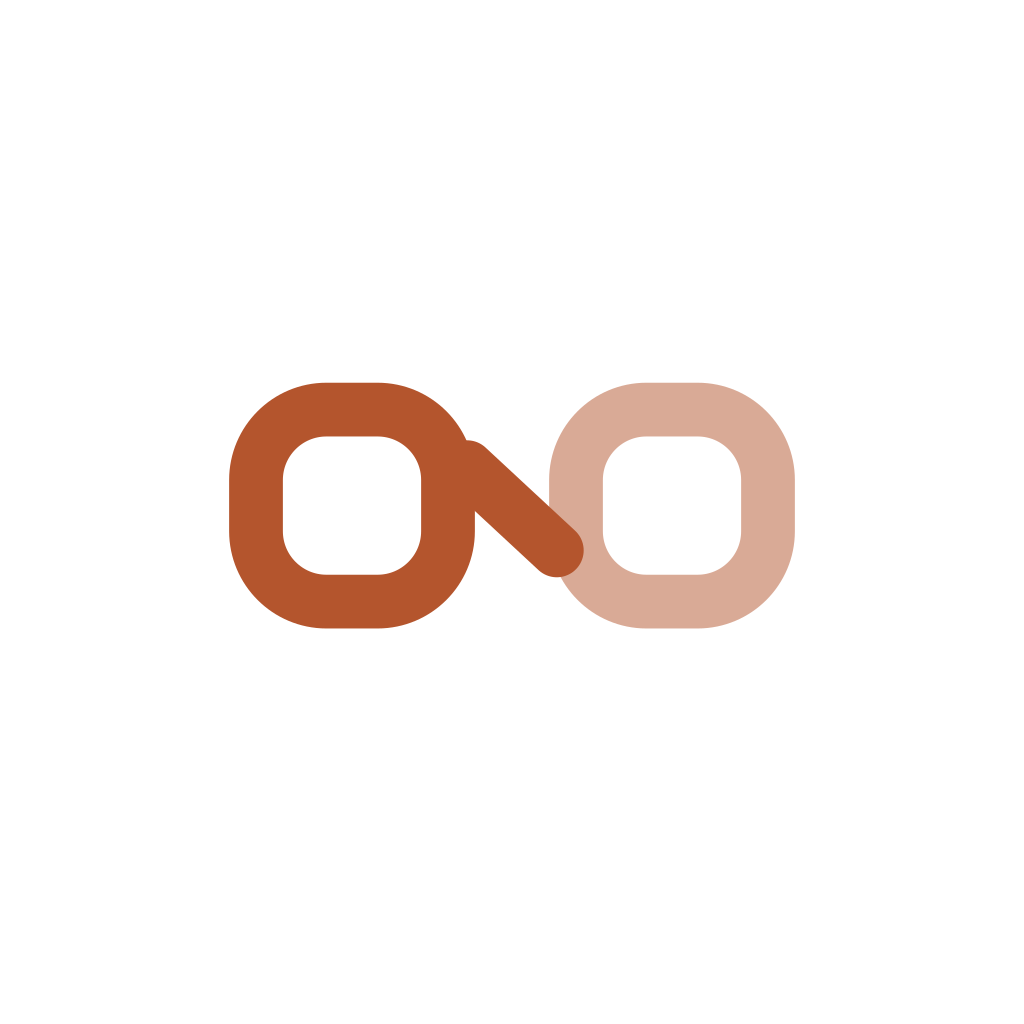
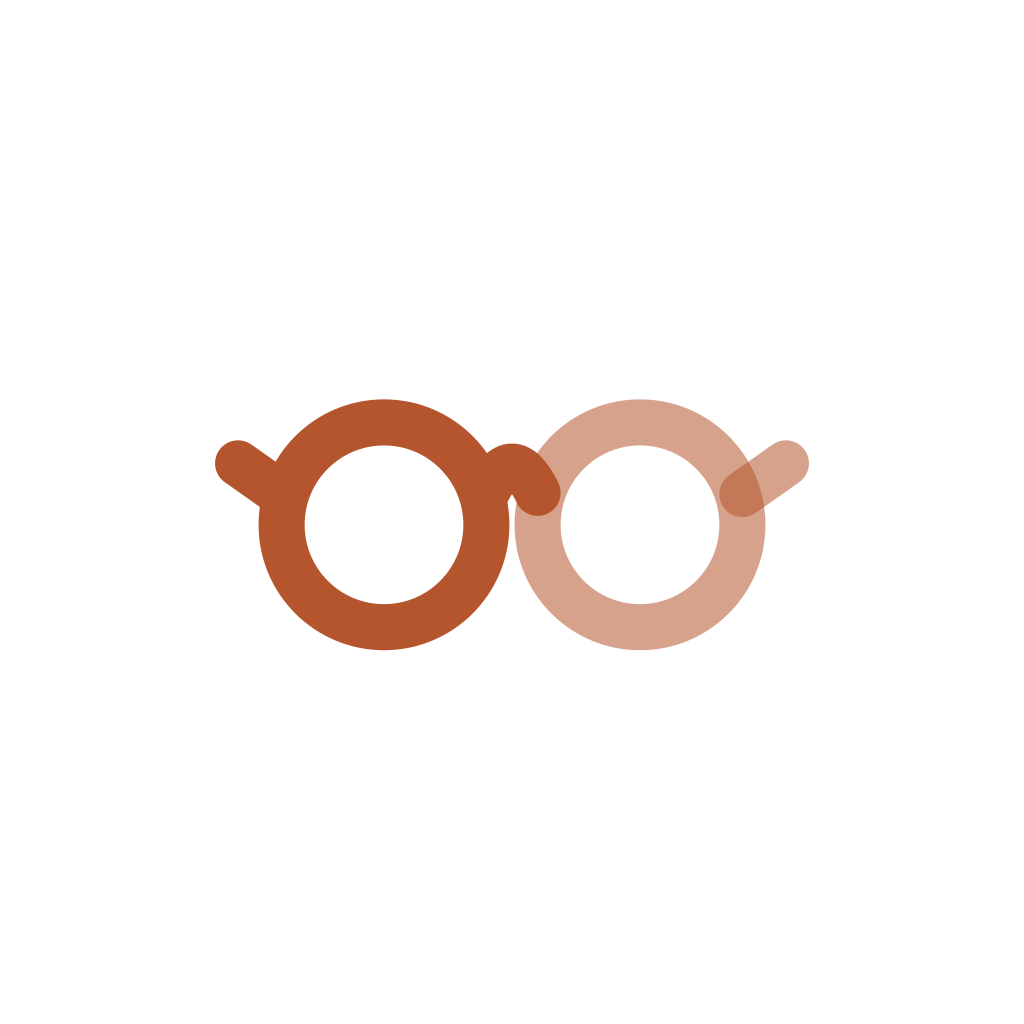
1.7.2 / versionCode 10: a real device name, findable lens stock, a better mark
The Devices screen showed "Android device" for every handset, because that is
the literal string deviceName() returned. It is the one screen whose whole job
is telling handsets apart. Now it reports the name the owner gave the phone,
falling back to brand and model, which is always there.

Lens blanks were already counted in the Stock tab -- they are products with kind
LENS -- but reaching them meant scrolling past every frame in the shop. A kind
filter and a search box make them findable, which is the whole point of counting
them.

A shop gains a street address, sent to the customer when their lenses are ready,
and can be deleted outright if it never traded.

The mark is redrawn again. Round rims, a bridge seated between them, a hinge on
each side. The previous one ran a diagonal straight through both lenses, which
read as a slash cancelling them out; squircles read as two buttons side by side.

The canvas goes a shade deeper. White cards against #f6f3ee were nearly the same
value, so every screen read as one flat sheet with nothing sitting on it.

Claude-Session: https://claude.ai/code/session_01UQKJPyMKVZzJh7FdvUmPio

Changed region(s): [[0.1875, 0.375, 0.8125, 0.6562], [0.4375, 0.4062, 0.4688, 0.4375]]

diff --git a/src/ui/Logo.tsx b/src/ui/Logo.tsx
@@ -1,19 +1,19 @@
-import Svg, { Path, Rect } from 'react-native-svg'
+import Svg, { Circle, Path } from 'react-native-svg'
 
 /**
  * Specskart's mark — original geometric artwork drawn for this app, not copied or traced from
- * anywhere. Two lens shapes on a bridge, with the bridge cut on a diagonal so it doubles as a
- * monogram "S" stroke running through the mark.
+ * anywhere. Two round lenses, a bridge seated between the rims, and a hinge stub on each side.
  *
- * Redrawn as solid two-tone: the thin 3.4px outline read as grey mush below about 40px, which
- * is exactly the size it appears at in the header and the launcher icon. Filled shapes hold
- * their shape at any size, and the right lens carrying a lighter tone keeps the two from
- * merging into one blob the way two identical filled rectangles would.
+ * Round, not squircles: a rounded rectangle at icon size reads as a button, and two side by
+ * side read as two buttons. The bridge sits *between* the rims and rises over them, the way a
+ * real frame does — an earlier version ran a diagonal straight through both lenses, which read
+ * as a slash cancelling them out rather than as eyewear.
  *
- * @param color the dominant tone — left lens and bridge.
- * @param accent the second tone for the right lens. Defaults to `color` at 45%, which works on
- *               any background without the caller having to pick a matching pair; pass one
- *               explicitly where the brand's own terracotta is wanted.
+ * Keep in step with scripts/mark-svg.js, which draws the same thing for the launcher icons.
+ *
+ * @param color the dominant tone — left lens, bridge, left hinge.
+ * @param accent the second tone for the right side. Defaults to `color` at 55%, which works on
+ *               any background without the caller having to pick a matching pair.
  */
 export function Logo({
   size = 40,
@@ -24,23 +24,23 @@ export function Logo({
   color?: string
   accent?: string
 }) {
+  const second = accent ?? color
+  const secondOpacity = accent ? 1 : 0.55
   return (
     <Svg width={size} height={size} viewBox="0 0 48 48" fill="none">
-      {/* Left lens */}
-      <Rect x={4} y={16} width={15} height={15} rx={5.5} stroke={color} strokeWidth={4.2} />
-      {/* Right lens — the second tone, so the pair reads as two and not one wide bar. */}
-      <Rect
-        x={29}
-        y={16}
-        width={15}
-        height={15}
-        rx={5.5}
-        stroke={accent ?? color}
-        strokeWidth={4.2}
-        opacity={accent ? 1 : 0.5}
+      <Circle cx={14} cy={25} r={8} stroke={color} strokeWidth={3.6} />
+      <Circle cx={34} cy={25} r={8} stroke={second} strokeWidth={3.6} opacity={secondOpacity} />
+      {/* Bridge — spans rim to rim (22 → 26) and arcs above them. */}
+      <Path d="M22 22.5 Q24 18.4 26 22.5" stroke={color} strokeWidth={3.6} strokeLinecap="round" />
+      {/* Hinges, so the mark reads as a frame rather than two circles. */}
+      <Path d="M6 22.6 L2.6 20.2" stroke={color} strokeWidth={3.6} strokeLinecap="round" />
+      <Path
+        d="M42 22.6 L45.4 20.2"
+        stroke={second}
+        strokeWidth={3.6}
+        strokeLinecap="round"
+        opacity={secondOpacity}
       />
-      {/* Bridge: the diagonal that doubles as the monogram's S stroke. */}
-      <Path d="M20.5 20.5 L27.5 27" stroke={color} strokeWidth={4.2} strokeLinecap="round" />
     </Svg>
   )
 }

diff --git a/app/shops.tsx b/app/shops.tsx
@@ -4,6 +4,7 @@ import { FlatList, View } from 'react-native'
 import { api, apiError } from '../src/lib/api'
 import { StoreView } from '../src/lib/pos'
 import { spacing } from '../src/theme'
+import { Alert } from 'react-native'
 import { Badge, Button, Card, Field, ListRow, RowDivider, Title, Toggle } from '../src/ui/components'
 
 export default function Shops() {
@@ -14,6 +15,7 @@ export default function Shops() {
   const [city, setCity] = useState('')
   const [editing, setEditing] = useState<string | null>(null)
   const [location, setLocation] = useState('')
+  const [address, setAddress] = useState('')
   const [error, setError] = useState('')
 
   const { data } = useQuery({
@@ -31,13 +33,33 @@ export default function Shops() {
 
   async function saveLocation(s: StoreView) {
     try {
-      await api.put(`/admin/pos/stores/${s.id}`, { location: location.trim() })
+      await api.put(`/admin/pos/stores/${s.id}`, { location: location.trim(), address: address.trim() })
       setEditing(null)
       setError('')
       qc.invalidateQueries({ queryKey: ['pos-stores-admin'] })
     } catch (e) {
       setError(apiError(e))
     }
+  }
+
+  // Only ever allowed for a shop that never traded -- the backend refuses the rest and says why.
+  function confirmDelete(s: StoreView) {
+    Alert.alert('Delete this shop?', `"${s.name}" is removed for good. A shop that has sold anything cannot be deleted \u2014 switch it off instead.`, [
+      { text: 'Keep it', style: 'cancel' },
+      {
+        text: 'Delete', style: 'destructive', onPress: async () => {
+          try {
+            await api.delete(`/admin/pos/stores/${s.id}`)
+            setEditing(null)
+            setError('')
+            qc.invalidateQueries({ queryKey: ['pos-stores-admin'] })
+            qc.invalidateQueries({ queryKey: ['pos-stores'] })
+          } catch (e) {
+            setError(apiError(e))
+          }
+        },
+      },
+    ])
   }
 
   async function toggleActive(s: StoreView) {
@@ -76,6 +98,7 @@ export default function Shops() {
           onPress={() => {
             setEditing(editing === item.id ? null : item.id)
             setLocation(item.latitude != null ? `${item.latitude}, ${item.longitude}` : '')
+            setAddress(item.address ?? '')
             setError('')
           }}
           trailing={
@@ -96,7 +119,15 @@ export default function Shops() {
               hint="Google Maps: long-press the shop, copy the numbers. Empty = this shop stops shipping online orders."
               error={error || undefined}
             />
-            <Button label="Save location" onPress={() => saveLocation(item)} />
+            <Field
+              label="Street address"
+              value={address}
+              onChangeText={setAddress}
+              placeholder="Shop 4, Manda Hill Mall, Great East Road"
+              hint="Sent to the customer on WhatsApp when their lenses are ready to collect."
+            />
+            <Button label="Save" onPress={() => saveLocation(item)} />
+            <Button label="Delete shop" variant="ghost" onPress={() => confirmDelete(item)} />
           </Card>
         )}
         </View>

diff --git a/app/(tabs)/stock.tsx b/app/(tabs)/stock.tsx
@@ -6,12 +6,22 @@ import { api } from '../../src/lib/api'
 import { useActiveStore } from '../../src/lib/activeStore'
 import { InventoryRow } from '../../src/lib/pos'
 import { colors, font, formatKwacha, radius, spacing } from '../../src/theme'
-import { Badge, Button, Card, EmptyState, Loading, Title } from '../../src/ui/components'
+import { Badge, Button, Card, EmptyState, Loading, Select, Title } from '../../src/ui/components'
+
+// Lens blanks live in the same product table as frames (kind LENS), so without this the
+// only way to reach them is to scroll a list of every frame in the shop.
+const KINDS = [
+  { value: 'ALL', label: 'All' },
+  { value: 'FRAME', label: 'Frames' },
+  { value: 'LENS', label: 'Lenses' },
+] as const
 
 export default function Stock() {
   const router = useRouter()
   const store = useActiveStore((s) => s.store)
   const qc = useQueryClient()
+  const [kind, setKind] = useState<string>('ALL')
+  const [query, setQuery] = useState('')
 
   const { data, isLoading } = useQuery({
     queryKey: ['pos-inventory', store?.id],
@@ -27,18 +37,38 @@ export default function Stock() {
   }
   if (isLoading) return <Loading />
 
-  const lowStock = (data ?? []).filter((r) => r.quantity <= r.reorderLevel).length
+  const q = query.trim().toLowerCase()
+  const rows = (data ?? [])
+    .filter((r) => kind === 'ALL' || (r.kind ?? 'FRAME') === kind)
+    .filter((r) => !q || r.productName.toLowerCase().includes(q) || r.sku.toLowerCase().includes(q))
+  const lowStock = rows.filter((r) => r.quantity <= r.reorderLevel).length
 
   return (
     <FlatList
       contentContainerStyle={{ padding: spacing.lg, gap: spacing.sm }}
-      data={data}
+      data={rows}
       keyExtractor={(r) => r.productId}
       ListHeaderComponent={
-        <View style={{ marginBottom: spacing.md }}>
+        <View style={{ marginBottom: spacing.md, gap: spacing.sm }}>
           <Title>Stock — {store.name}</Title>
+          <Select value={kind} options={KINDS as any} onChange={setKind} />
+          <TextInput
+            value={query}
+            onChangeText={setQuery}
+            placeholder="Search by name or SKU"
+            placeholderTextColor={colors.textFaint}
+            style={{
+              height: 44, borderWidth: 1.5, borderColor: colors.border, borderRadius: radius.md,
+              paddingHorizontal: spacing.md, fontFamily: font.medium, fontSize: 15, color: colors.text,
+              backgroundColor: colors.canvas,
+            }}
+          />
           {lowStock > 0 && <Badge label={`${lowStock} item(s) low or out of stock`} tone="warning" />}
         </View>
+      }
+      ListEmptyComponent={
+        <EmptyState icon="package" title="Nothing here"
+          hint={kind === 'LENS' ? 'Lens blanks appear once they exist in the catalogue.' : 'Try a different filter.'} />
       }
       renderItem={({ item }) => (
         <Row

diff --git a/scripts/mark-svg.js b/scripts/mark-svg.js
@@ -5,15 +5,21 @@
 // APK shipped the old mark on the home screen. Two copies of the same artwork will always
 // drift; one copy cannot.
 //
-// This still mirrors src/ui/Logo.tsx by hand — react-native-svg's <Rect>/<Path> props don't
+// This still mirrors src/ui/Logo.tsx by hand — react-native-svg's <Circle>/<Path> props don't
 // translate to a file sharp can read. Change one, change the other.
+//
+// The drawing: two circular lenses joined by a raised bridge, with the temple arm sweeping off
+// the right lens. Round beats the earlier squircles — a rounded rectangle at icon size reads as
+// a button, and two of them side by side read as two buttons. The bridge sits *between* the
+// rims and rises over them, which is what a real frame does; the previous version ran a
+// diagonal straight through both lenses, which read as a slash cancelling them out.
 const BONE = '#f6f3ee';
 const INK = '#14110f';
 const CLAY = '#b4552d';
 
 /**
  * @param box       output size in px
- * @param markColor the dominant tone; the right lens is drawn at 50% of it
+ * @param markColor the dominant tone; the right lens is drawn at 55% of it
  * @param bgColor   a filled backdrop, or null for transparent (adaptive foregrounds)
  * @param scale     shrinks the mark within the box — adaptive foregrounds need padding for
  *                  the launcher's mask
@@ -24,10 +30,13 @@ function markSvg({ box, markColor, bgColor, scale = 1, translate = [0, 0] }) {
   return `
     <svg width="${box}" height="${box}" viewBox="0 0 48 48" xmlns="http://www.w3.org/2000/svg">
       ${bgColor ? `<rect width="48" height="48" fill="${bgColor}"/>` : ''}
-      <g transform="translate(${24 + tx}, ${24 + ty}) scale(${scale}) translate(-24, -24)">
-        <rect x="4" y="16" width="15" height="15" rx="5.5" fill="none" stroke="${markColor}" stroke-width="4.2"/>
-        <rect x="29" y="16" width="15" height="15" rx="5.5" fill="none" stroke="${markColor}" stroke-width="4.2" opacity="0.5"/>
-        <path d="M20.5 20.5 L27.5 27" stroke="${markColor}" stroke-width="4.2" stroke-linecap="round"/>
+      <g transform="translate(${24 + tx}, ${24 + ty}) scale(${scale}) translate(-24, -24)"
+         fill="none" stroke="${markColor}" stroke-width="3.6" stroke-linecap="round">
+        <circle cx="14" cy="25" r="8"/>
+        <circle cx="34" cy="25" r="8" opacity="0.55"/>
+        <path d="M22 22.5 Q24 18.4 26 22.5"/>
+        <path d="M6 22.6 L2.6 20.2"/>
+        <path d="M42 22.6 L45.4 20.2" opacity="0.55"/>
       </g>
     </svg>
   `;

diff --git a/src/lib/device.ts b/src/lib/device.ts
@@ -1,4 +1,5 @@
 import * as Crypto from 'expo-crypto'
+import * as Device from 'expo-device'
 import * as SecureStore from 'expo-secure-store'
 import { Platform } from 'react-native'
 
@@ -15,6 +16,19 @@ export async function getDeviceId(): Promise<string> {
   return id
 }
 
+/**
+ * What this handset is called on the Devices screen.
+ *
+ * This used to return the literal string "Android device" for every phone in the shop, which
+ * made the screen useless for the one thing it exists for — working out which handset to sign
+ * out. Now: the name the owner gave the phone if Android will tell us (it is null on plenty of
+ * devices, and on Android 12+ needs a name to have been set at all), else the brand and model,
+ * which is always there.
+ */
 export function deviceName(): string {
+  const given = Device.deviceName?.trim()
+  if (given) return given
+  const model = [Device.brand, Device.modelName].filter(Boolean).join(' ').trim()
+  if (model) return model
   return Platform.OS === 'android' ? 'Android device' : 'iOS device'
 }

diff --git a/src/theme.ts b/src/theme.ts
@@ -21,15 +21,24 @@ export const colors = {
   // Clay — the accent. Used sparingly: totals, highlights, warnings.
   accent: '#b4552d',
   accentDeep: '#8f4223',
-  accentSoft: '#f5e3da',
+  accentBright: '#d4724a',
+  accentSoft: '#f7e8e0',
+
+  // A cool counterweight. Everything in this palette was warm, which is what made the screens
+  // read as one undifferentiated wash -- a second family is what makes the warm colours look
+  // chosen rather than default.
+  cool: '#2f4858',
+  coolSoft: '#e4ebf0',
 
   /** The card the wordmark sits on, and the adaptive icon's background. */
   brandCard: '#f6f3ee',
 
-  // Bone paper neutrals.
-  canvas: '#f6f3ee',
+  // Bone paper neutrals. The canvas is a touch deeper than it was so a white card actually
+  // separates from it -- at #f6f3ee against #FFFFFF the two were nearly the same value and
+  // every screen read as one flat sheet.
+  canvas: '#f2eee7',
   surface: '#FFFFFF',
-  surfaceSunken: '#ece8e1',
+  surfaceSunken: '#e7e2d9',
   border: '#e2ddd3',
   borderStrong: '#cec6b7',
 

diff --git a/src/lib/pos.ts b/src/lib/pos.ts
@@ -1,5 +1,7 @@
 // Mirrors com.specskart.pos.PosDtos on the backend.
 export type InventoryRow = {
+  /** FRAME or LENS — lens blanks are counted here too, and staff need to find them. */
+  kind: string
   productId: string
   productName: string
   sku: string
@@ -146,6 +148,8 @@ export type VersionInfo = {
 }
 
 export type StoreView = {
+  /** Street address, read out to a customer coming to collect. */
+  address: string | null
   id: string; name: string; code: string; city: string; active: boolean
   // map pin — set = this shop's stock sells online and it ships the nearest web orders
   latitude: number | null; longitude: number | null
